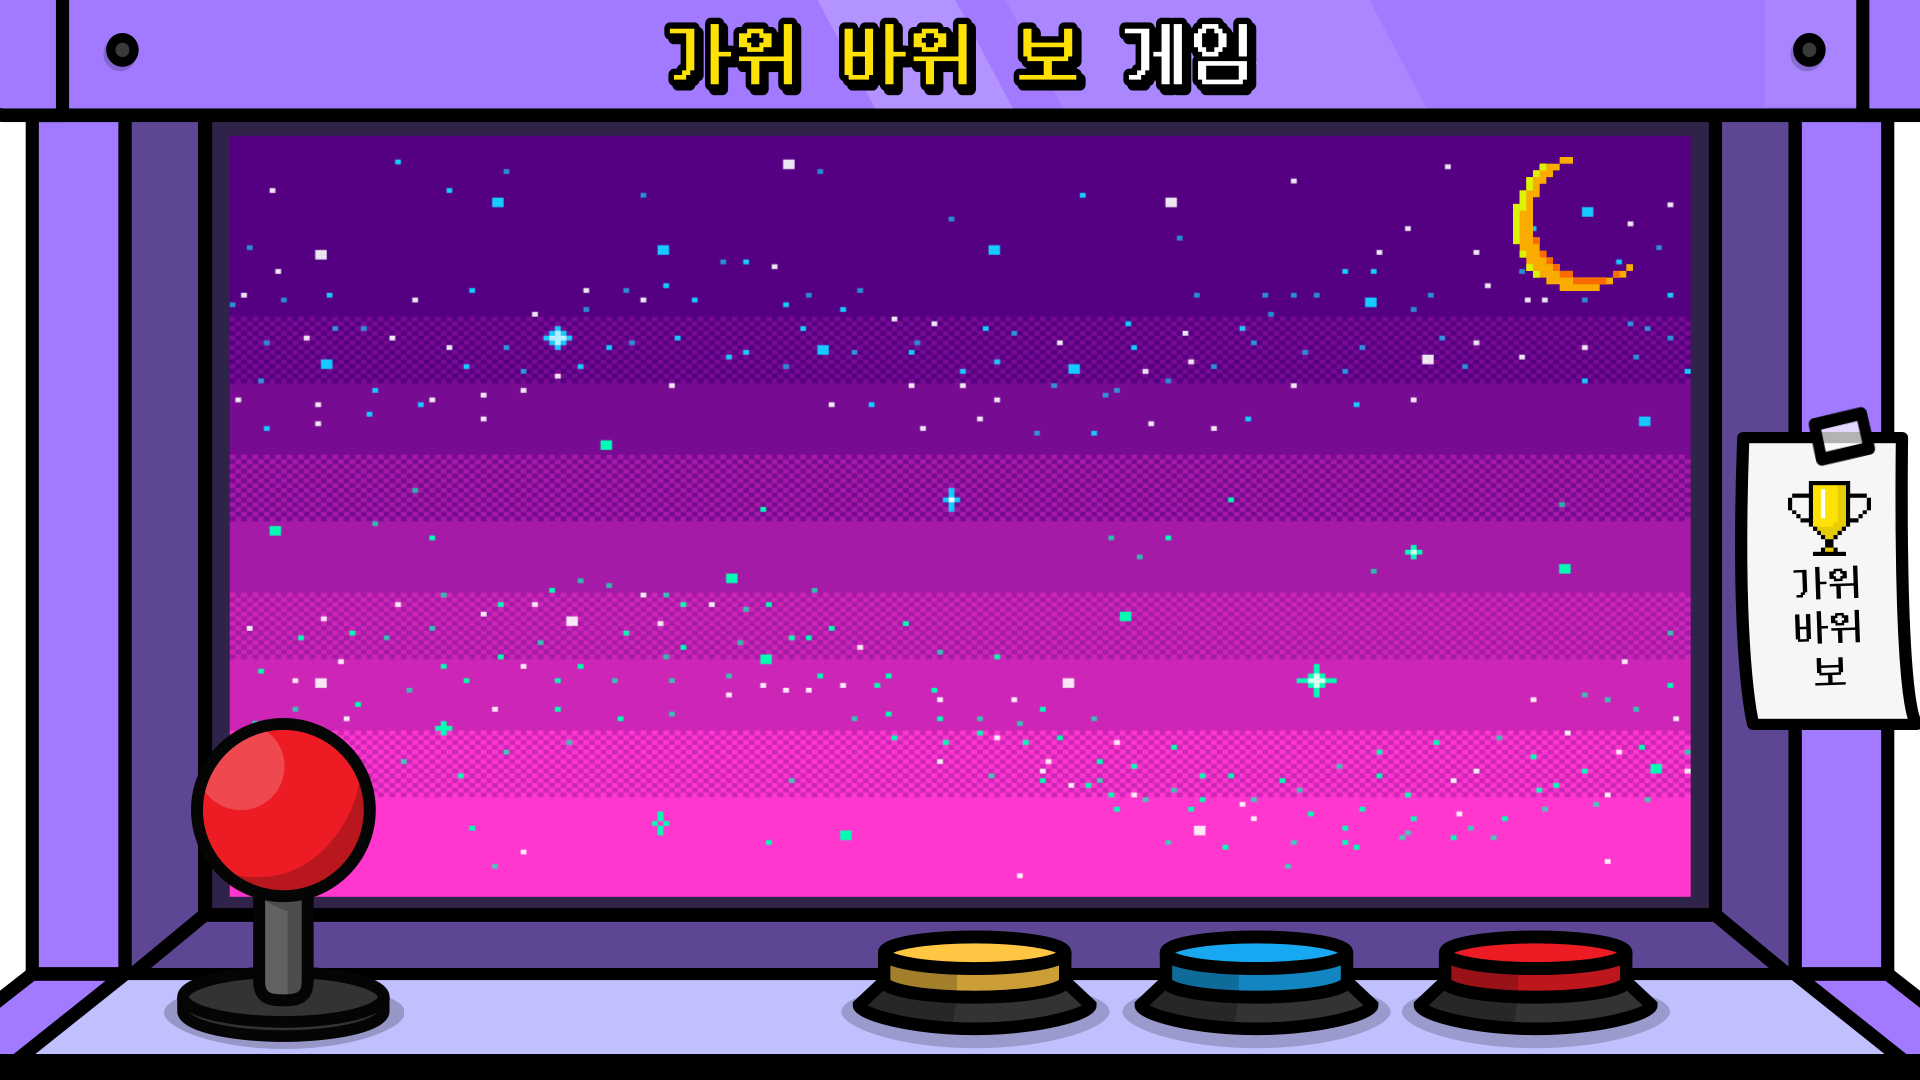
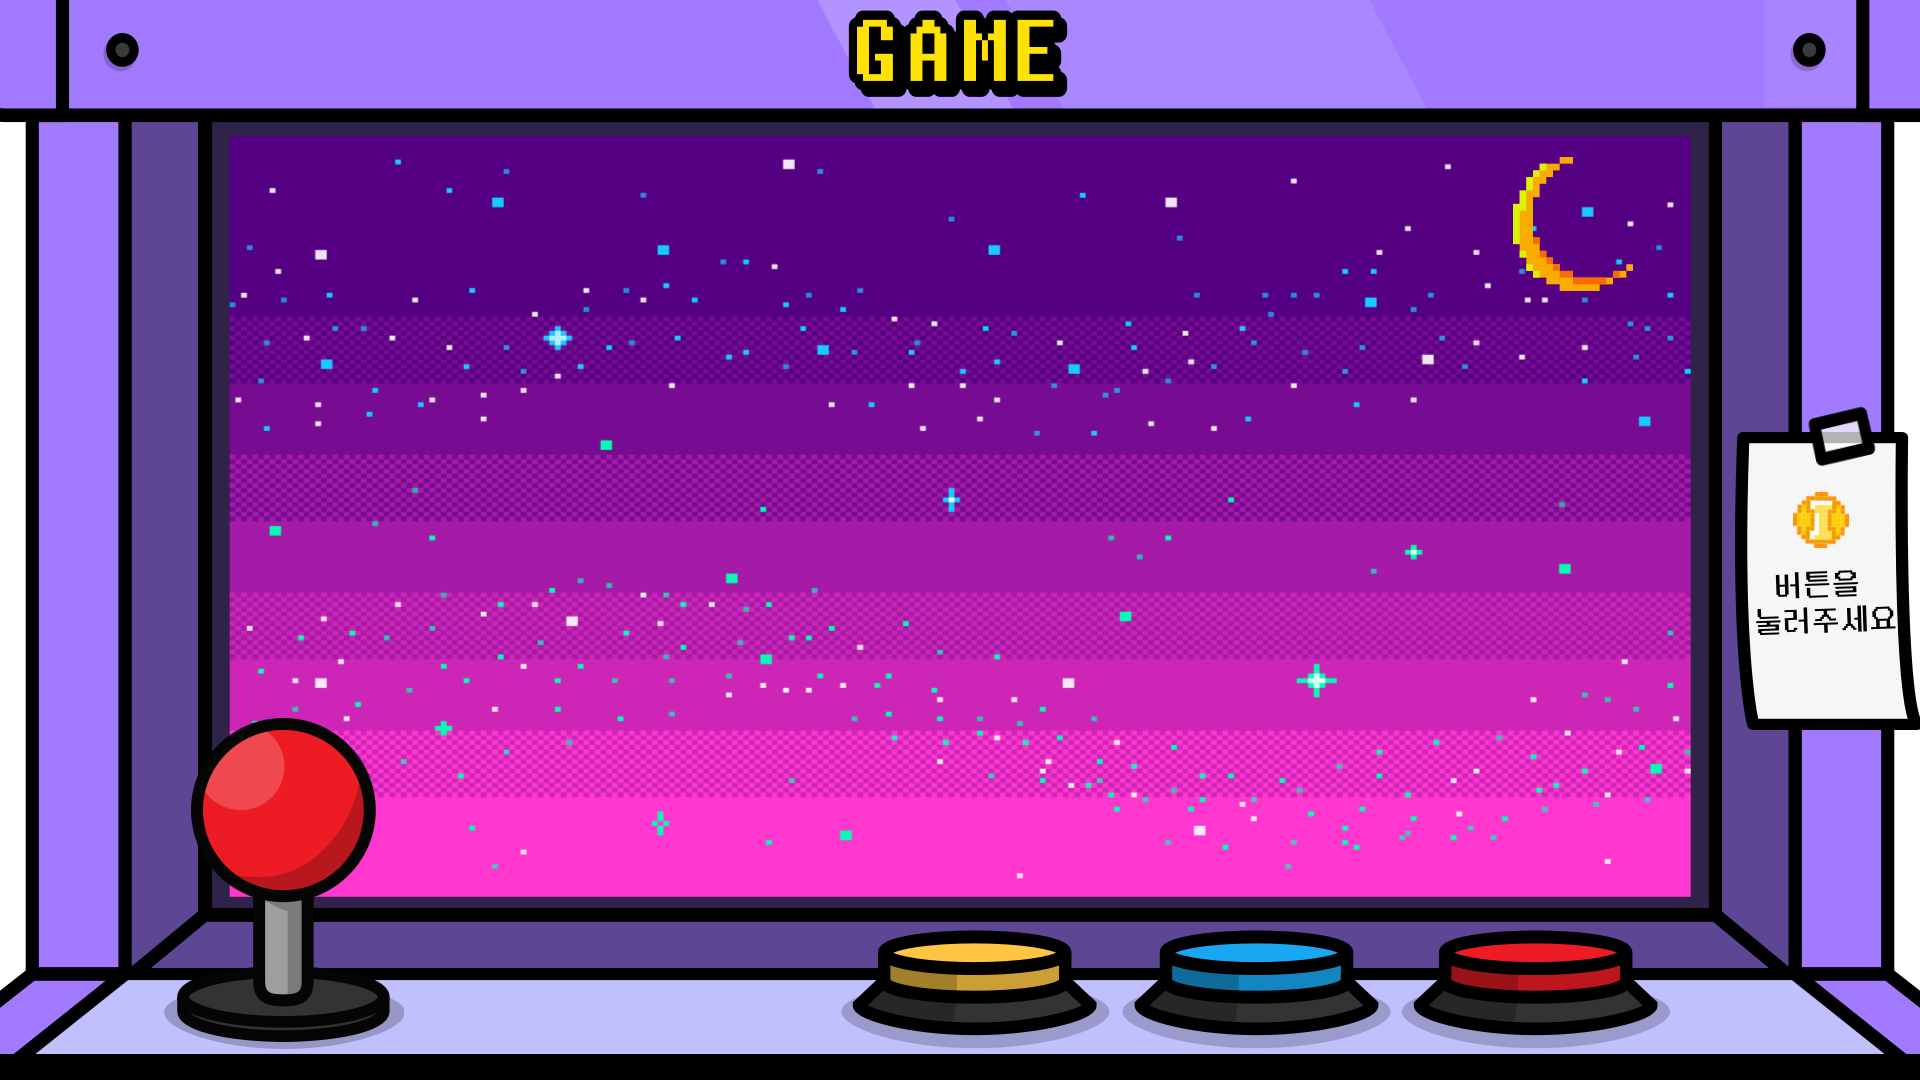
가위바위보 게임

Changed region(s): [[0.3438, 0.0, 0.6562, 0.0917], [0.9062, 0.4278, 1.0, 0.6417], [0.125, 0.825, 0.1562, 0.9167]]

diff --git a/rock/rock_paper_scissors_game.html b/rock/rock_paper_scissors_game.html
@@ -6,11 +6,13 @@
   <meta http-equiv="X-UA-Compatible" content="IE=edge">
   <meta name="viewport" content="width=device-width, initial-scale=1.0">
   <title>Document</title>
+  <script src="https://ajax.googleapis.com/ajax/libs/jquery/3.6.0/jquery.min.js"></script>
   <link rel="stylesheet" href="./game.css">
   <script src="./game.js"></script>
 </head>
 <body>
   <div class='bigBox'>
+    <img class="coin" id="coin" src="./chaeng-static.gif" alt="동전" data-animated="./chaeng-animated.gif" data-static="./chaeng-static.gif" >
     <div class="buttonBox">
       <div id="userRock" class="userButton1">✊</div>
       <div id="userPaper" class="userButton2">🖐</div>

diff --git a/rock/game.js b/rock/game.js
@@ -41,6 +41,14 @@ window.onload = () => {
       }
 
     }
+    
+    $(".hov-anim").mouseover(function() {
+      $(this).attr("src", $(this).data("animated"))
+    }),
+    $(".hov-anim").mouseout(function() {
+      $(this).attr("src", $(this).data("static"))
+    });
+    
     // button을 눌렀을때
     userRock.onclick = function () { 
       let comGameResult = comVsUser();
